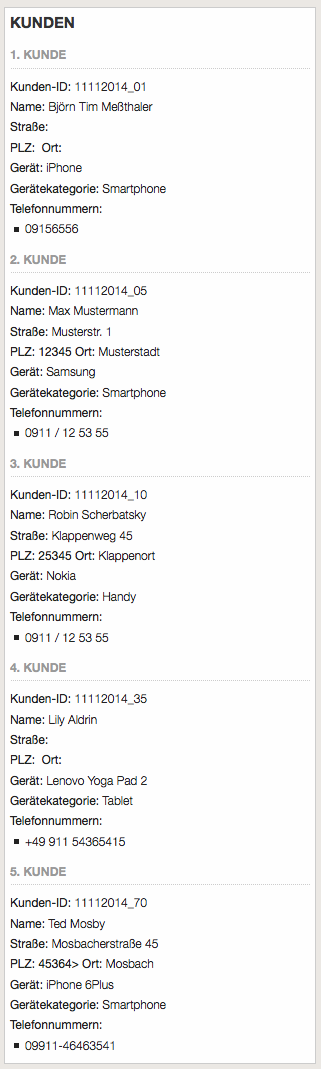
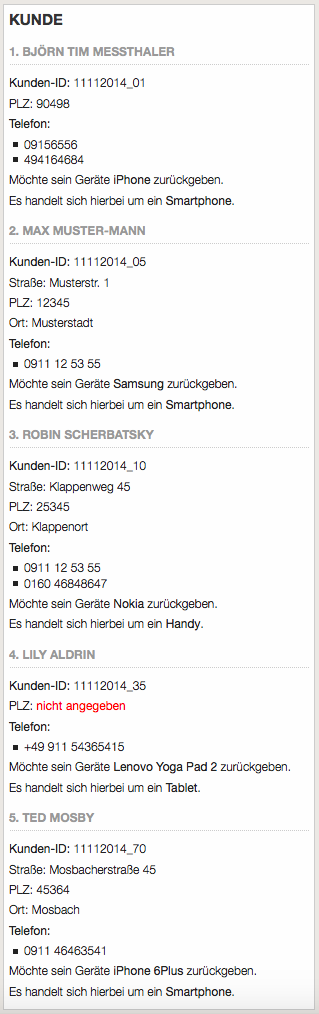
Änderungen an Views und Doku

Changed region(s): [[0.0, 0.0, 0.9875, 1.0], [0.4514, 0.5197, 0.4796, 0.5503]]

diff --git a/Doku/XML Linking Language (XLink) Version 1.1.html b/Doku/XML Linking Language (XLink) Version 1.1.html
@@ -159,11 +159,14 @@ All Rights Reserved. W3C <a href="http://www.w3.org/Consortium/Legal/ipr-notice#
 &nbsp;&nbsp;&nbsp;&nbsp;7.1 <a href="xpatheinarbeitung">Einarbeitung</a><br>
 &nbsp;&nbsp;&nbsp;&nbsp;7.2 <a href="xpathdocumentorder">Document Order<a><br>
 8  <a href="#xslt">Entwicklung der Views mit XSLT</a><br>
-&nbsp;&nbsp;&nbsp;&nbsp;8.1 <a href="#xslt-geraeteliste">Geräteliste</a><br>
-&nbsp;&nbsp;&nbsp;&nbsp;8.2 <a href="#xslt-herstelleruebersicht">Herstellerübersicht</a><br>
-&nbsp;&nbsp;&nbsp;&nbsp;8.3 <a href="#xslt-kundenliste">Kundenliste</a><br>
-&nbsp;&nbsp;&nbsp;&nbsp;8.4 <a href="#xslt-kundenrecyclinghof">Übersicht Kunden-Recyclinghof</a><br>
-&nbsp;&nbsp;&nbsp;&nbsp;8.5 <a href="#xslt-probleme">Probleme und Herausforderungen bei der Entwicklung der Views</a><br>
+&nbsp;&nbsp;&nbsp;&nbsp;8.1 <a href="#xslt-vorbereitung">Vorbereitung</a><br>
+&nbsp;&nbsp;&nbsp;&nbsp;8.2 <a href="#xslt-geraeteliste">Geräteliste</a><br>
+&nbsp;&nbsp;&nbsp;&nbsp;8.3 <a href="#xslt-herstelleruebersicht">Herstellerübersicht</a><br>
+&nbsp;&nbsp;&nbsp;&nbsp;8.4 <a href="#xslt-kundenliste">Kundenliste</a><br>
+&nbsp;&nbsp;&nbsp;&nbsp;8.5 <a href="#xslt-kundenrecyclinghoffehlend">Übersicht Kunden-Recyclinghof fehlende Postleitzahl</a><br>
+&nbsp;&nbsp;&nbsp;&nbsp;8.6 <a href="#xslt-kundenrecyclinghofeinfach">Anzeige welcher Recyclinghof passt genau zur Postleitzahl des Kunden</a><br>
+&nbsp;&nbsp;&nbsp;&nbsp;8.7 <a href="#xslt-kundenrecyclinghofnahe">Anzeige welcher Recyclinghof ist in der Nähe des Kunden</a><br>
+&nbsp;&nbsp;&nbsp;&nbsp;8.8 <a href="#xslt-probleme">Probleme</a><br>
 9  <a href="#erweiterungen">Mögliche Erweiterungen und Einsatzbereiche</a><br>
 10 <a href="#fazit">Fazit</a><br>
 </div>
@@ -1134,8 +1137,43 @@ div count(bestandteile/bestandteil), '###,###,##0.00')"/&gt; %&lt;/strong&gt;
   </figure> 
 
 <h3><a name="xslt-herstelleruebersicht" id="xslt-herstelleruebersicht"></a>8.3 Herstellerübersicht</h3>
+<p>Ein Liste aller in der Datenbank vorhandene Hersteller</p>
+<h4>8.3.1. XML-Fragment</h4>
+<pre>
+&lt;hersteller herstellerID="Samsung"&gt;
+		&lt;adresse&gt;
+			&lt;name&gt;Samsung Electrics GmbH&lt;/name&gt;
+			&lt;strasse&gt;Am Kronberger Hang 6&lt;/strasse&gt;
+			&lt;plz&gt;65824&lt;/plz&gt;
+			&lt;ort&gt;Schwalbach am Taunus&lt;/ort&gt;
+			&lt;telefon&gt;0180 6 67267864&lt;/telefon&gt;
+		&lt;/adresse&gt;
+	&lt;/hersteller&gt;
+</pre>
+<h4>8.3.2 XSLT-Fragment</h4>
+<pre>
+&lt;div id="geraete"&gt;
+	&lt;h1&gt;Hersteller&lt;/h1&gt;
+    &lt;xsl:for-each select="$hersteller/hersteller"&gt;
+    &lt;xsl:sort select="@herstellerID"/&gt;
+	&lt;p&gt;
+    &lt;h3&gt;&lt;xsl:value-of select="position()" /&gt;. Hersteller&lt;/h3&gt;
+    &lt;p&gt;&lt;strong&gt;Name: &lt;/strong&gt;&lt;xsl:value-of select="adresse/name"/&gt;&lt;/p&gt;
+    &lt;p&gt;&lt;strong&gt;Straße: &lt;/strong&gt;&lt;xsl:value-of select="adresse/strasse"/&gt;&lt;/p&gt;
+    &lt;p&gt;&lt;strong&gt;PLZ: &lt;xsl:value-of select="adresse/plz"/&gt;&#160;&lt;/strong&gt;&lt;strong&gt;Ort: &lt;/strong&gt;&lt;xsl:value-of select="adresse/ort"/&gt;&lt;/p&gt;
+    &lt;strong&gt;Telefonnummern:&lt;/strong&gt;
+    &lt;ul&gt;
+    &lt;xsl:for-each select="adresse"&gt;
+    &lt;li&gt;&lt;xsl:value-of select="telefon"/&gt;&lt;/li&gt;
+    &lt;/xsl:for-each&gt;
+    &lt;/ul&gt;
+    &lt;/p&gt;
+    &lt;/xsl:for-each&gt;
+&lt;/div&gt;
+</pre>
+<h4>8.3.3 Screenshot</h4>
   <figure> 
-    <img src="img/kundenliste.png" alt="Kundenliste" />
+    <img src="img/herstellerliste.png" alt="Herstellerliste" />
     <figcaption><span>Abbildung 12: <abbr title="Herstellerliste">Herstellerliste</abbr></span></figcaption>
   </figure> 
 
@@ -1158,22 +1196,34 @@ div count(bestandteile/bestandteil), '###,###,##0.00')"/&gt; %&lt;/strong&gt;
    &lt;xsl:otherwise&gt;&lt;/xsl:otherwise&gt;
 &lt;/xsl:choose&gt;
 </pre>
+<h4>Screenshot</h4>
   <figure> 
     <img src="img/kundenliste.png" alt="Kundenliste" />
     <figcaption><span>Abbildung 13: <abbr title="Geräteliste">Kundenliste</abbr></span></figcaption>
   </figure> 
 
-<h3><a name="xslt-kundenrecyclinghofplzfehlt" id="xslt-kundenrecyclinghofplzfehlt"></a>8.5 Übersicht Kunden-Recyclinghof fehlende Postleitzahl</h3>
-<h4>Anwendungsfall: Kunde kommt und möchte sein Gerät zurückgeben</h4>
+<h3><a name="xslt-kundenrecyclinghoffehlend" id="xslt-kundenrecyclinghofplzfehlt"></a>8.5 Übersicht Kunden-Recyclinghof fehlende Postleitzahl</h3>
+<h4>8.5.1 Anwendungsfall: Kunde kommt und möchte sein Gerät zurückgeben</h4>
 <p>Der Kunde kommt zu uns und möchte sein Gerät recycling lassen. Er möchte gerne wissen welcher Recyclinghof in seiner Nähe sein Gerät zurücknimmt</p>
 <p>Leider hat er bei seiner Registrierung seine Postleitzahl vergessen einzugeben, um jedoch einen Recyclinghof in seiner näheren Umgebung zu finden is die Postleitzahl zwingend notwendig.</p>
 <p>Unser System liefert einen Fehler und bittet die Postleitzahl nachzuliefern.</p>
-<h4>Anlegen einer neuen Variablen</h4>
+<h4>8.5.2 XML Kunde "Lily"</h4>
+<pre>
+&lt;kunde kundenID="11112014_35" geraet="Lenovo Yoga Pad 2" geraetekategorie="Tablet"&gt;
+		&lt;adresse&gt;
+			&lt;name&gt;Lily Aldrin&lt;/name&gt;
+			&lt;plz&gt;90411&lt;/plz&gt;
+			&lt;telefon&gt;049 911 54365415&lt;/telefon&gt;
+			&lt;telefon&gt;049 175 129323&lt;/telefon&gt;
+		&lt;/adresse&gt;
+&lt;/kunde&gt;
+</pre>
+<h4>8.5.3 Anlegen einer neuen Variablen</h4>
 <p>Unser imaginäre Kunde Lily wird in der Variable "lily" gespeichert um eine leichtere Verarbeitung zu gewährleisten.</p>
 <pre>
 &lt;xsl:variable name="lily" select="$kunden/kunde[@kundenID='11112014_35']" /&gt;
 </pre>
-<h4>Code der die fehlende Postleitzahl erkennt</h4>
+<h4>8.5.4 XSLT-Code der die fehlende Postleitzahl erkennt</h4>
 <pre>
 &lt;xsl:choose&gt;
      &lt;xsl:when test="adresse/plz"&gt;
@@ -1186,18 +1236,74 @@ div count(bestandteile/bestandteil), '###,###,##0.00')"/&gt; %&lt;/strong&gt;
     <figcaption><span>Abbildung 14: <abbr title="KundeRecyclinghof">Fehler bei fehlender PLZ</abbr></span></figcaption>
 </figure> 
 
-<h3><a name="xslt-kundenrecyclinghof" id="xslt-kundenrecyclinghof"></a>8.6 Übersicht Kunden-Recyclinghof</h3>
-<p>Nachdem die Postleitzahl eingefügt wurde, können wir nun anhand der PLZ ermitteln welcher Recyclinghof sich in der Nähe des Kunde befindet.</p>
-<h4>Probleme</h4>
-<p>Leider lassen sich in XSLT 1.0 nicht ohne Aufwand zwei Zahlen vergleichen</p>
-<h4>Work-Around</h4>
+<h3><a name="xslt-kundenrecyclinghofeinfach" id="xslt-kundenrecyclinghofexakt"></a>8.6 Anzeige welcher Recyclinghof passt genau zur PLZ des Kunden</h3>
+<p>Nachdem die Postleitzahl eingefügt wurde, können wir nun anhand der PLZ ermitteln welcher Recyclinghof sich in der Nähe des Kunde befindet. </p>
+<p>In diesem Fall suchen wir nach genau dem Recyclinghof der zur Adresse von der Kundin passt. Nicht schön aber für den Anfang okay.</p>
+<h4>XSLT</h4>
 <pre>
+&lt;div id="recyclinghof"&gt;
+	&lt;h1&gt;Vorgeschlagene Recyclinghoefe&lt;/h1&gt;
+	&lt;xsl:for-each select="$recyclinghof/recyclinghof"&gt;
+    &lt;xsl:variable name="aktuellplz" select="adresse/plz" /&gt;
+    &lt;xsl:choose&gt; 
+    &lt;xsl:when test="$lily/adresse/plz = $aktuellplz"&gt;
+    &lt;h3&gt;&lt;xsl:value-of select="adresse/name" /&gt;&lt;/h3&gt;
+    &lt;p&gt;Straße: &lt;xsl:value-of select="adresse/strasse" /&gt;&lt;/p&gt;
+    &lt;p&gt;Ort: &lt;xsl:value-of select="adresse/plz" /&gt;&#160;&lt;xsl:value-of select="adresse/ort" /&gt;&lt;/p&gt;
+    &lt;p&gt;Öffnungszeiten:&lt;/p&gt;
+    &lt;ul&gt;
+    &lt;xsl:for-each select="oeffnungszeiten"&gt;
+    &lt;li&gt;&lt;xsl:value-of select="text()" /&gt;&lt;/li&gt;
+    &lt;/xsl:for-each&gt;
+    &lt;/ul&gt;
+    &lt;p&gt;&lt;/p&gt;&lt;/xsl:when&gt;
+    &lt;xsl:otherwise&gt;&lt;/xsl:otherwise&gt;
+    &lt;/xsl:choose&gt;
+    &lt;/xsl:for-each&gt;
+&lt;/div&gt;
 </pre>
+<h4>Screenshot</h4>
+<figure> 
+    <img src="img/reycling-einfach.png" alt="PLZ fehlt" />
+    <figcaption><span>Abbildung 15: <abbr title="KundeRecyclinghof">Einfache Ausgabe des passenden Recyclinghofs</abbr></span></figcaption>
+</figure>
 
-<h3><a name="xslt-probleme" id="xslt-probleme"></a>8.7 Probleme und Herausforderungen bei der Entwicklung der Views</h3>
+<h3><a name="xslt-kundenrecyclinghofnahe" id="xslt-kundenrecyclinghofnahe"></a>8.7 Anzeige welcher Recyclinghof ist in der Nähe des Kunden</h3>
+<p>Nachdem die Postleitzahl eingefügt wurde, können wir nun anhand der PLZ ermitteln welcher Recyclinghof sich in der Nähe des Kunde befindet.</p>
+<h4>XSLT-Code </h4>
+<pre>
+&lt;div id="recyclinghof"&gt;
+	&lt;h1&gt;Vorgeschlagene Recyclinghoefe&lt;/h1&gt;
+	&lt;xsl:for-each select="$recyclinghof/recyclinghof"&gt;
+    &lt;xsl:variable name="aktuellplz" select="adresse/plz" /&gt;
+    &lt;xsl:variable name="aktuellplz1" select="substring($aktuellplz, 1,3)" /&gt;
+    &lt;xsl:choose&gt; 
+    &lt;xsl:when test="starts-with($lily/adresse/plz,$aktuellplz1)"&gt;
+    &lt;h3&gt;&lt;xsl:value-of select="adresse/name" /&gt;&lt;/h3&gt;
+    &lt;p&gt;Straße: &lt;xsl:value-of select="adresse/strasse" /&gt;&lt;/p&gt;
+    &lt;p&gt;Ort: &lt;xsl:value-of select="adresse/plz" /&gt;&#160;&lt;xsl:value-of select="adresse/ort" /&gt;&lt;/p&gt;
+    &lt;p&gt;Öffnungszeiten:&lt;/p&gt;
+    &lt;ul&gt;
+    &lt;xsl:for-each select="oeffnungszeiten"&gt;
+    &lt;li&gt;&lt;xsl:value-of select="text()" /&gt;&lt;/li&gt;
+    &lt;/xsl:for-each&gt;
+    &lt;/ul&gt;
+    &lt;p&gt;&lt;/p&gt;&lt;/xsl:when&gt;
+    &lt;xsl:otherwise&gt;&lt;/xsl:otherwise&gt;
+    &lt;/xsl:choose&gt;
+    &lt;/xsl:for-each&gt;
+&lt;/div&gt;
+</pre>
+<h4>Screenshot</h4>
+<figure> 
+    <img src="img/recyclinghof-substring.png" alt="Filtern mit Substring" />
+    <figcaption><span>Abbildung 16: <abbr title="ChromeFehler">Fehler beim Chrome Browser</abbr></span></figcaption>
+</figure> 
+
+<h3><a name="xslt-probleme" id="xslt-probleme"></a>8.8 Probleme und Herausforderungen bei der Entwicklung der Views</h3>
 <figure> 
     <img src="img/ChromeError.png" alt="Fehler Chrome Browser" />
-    <figcaption><span>Abbildung 15: <abbr title="ChromeFehler">Fehler beim Chrome Browser</abbr></span></figcaption>
+    <figcaption><span>Abbildung 17: <abbr title="ChromeFehler">Fehler beim Chrome Browser</abbr></span></figcaption>
 </figure> 
 </div> 
 
@@ -1207,7 +1313,18 @@ div count(bestandteile/bestandteil), '###,###,##0.00')"/&gt; %&lt;/strong&gt;
 
 <div class="div1">
 <h2><a name="fazit" id="fazit"/>9 Fazit</h2>
+<p>Nach anfänglichen Startschwierigkeiten mit der Materie "Datenmodellierung in XML" konnten wir uns schnell für das Thema begeistern und einarbeiten. Durch die Projektarbeit haben wir viel zum Thema XML gelernt, wenn wir auch nur an der Oberfläche kratzen konnten.</p>
+<p>
+Wir stellten fest, das sich aus einem theoretischen Datenmodell noch lange keine vernünftgen Views entwickeln lassen und so musste wir zu einem sehr späten Zeitpunkt im Projekt nochmals unser Datenmodell überdenken und ändern.
+</p>
+<p>Leider musste wir auch feststellen, dass XSLT 1.0 sehr eingeschränkt arbeitet, so hätten wir gerne eine komplexere Webseite mit mehreren Menüpunkten aus unserer XML-Datenbank erzeugt und komplexere Abfragen entwickelt.</p>
 </div> 
+
+<div class="div1">
+<h2><a name="aufgabenverteilung" id="aufgabenverteilung"/>10 Aufgabenverteilung</h2>
+<p>Grundsätzlich hat im Projekt "Recycling" jeder von allem etwas gemacht.
+Jedoch haben sich im späteren Verlauf Schwerpunkte herauskristallisiert. Josef Eiter war zum größtenteil mit der Datenmodellierung in XML und XSLT beschäftigt. Jennifer Steinbinder mit Dokumentation, Geschäftsprozessmodell und Validierung verantwortlich. Tobias Linke mit XSLT, Views und XML-Datenmodellierung.</p>
+</div>
 
 <div class="back">
 <div class="div1">
